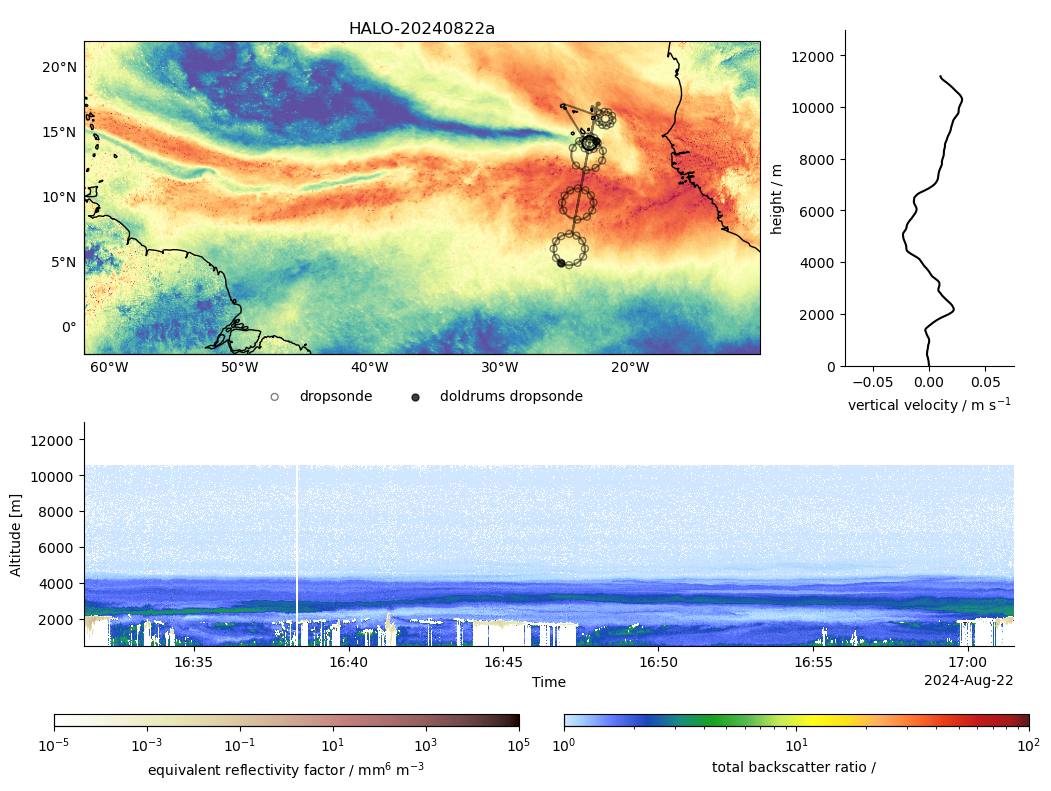
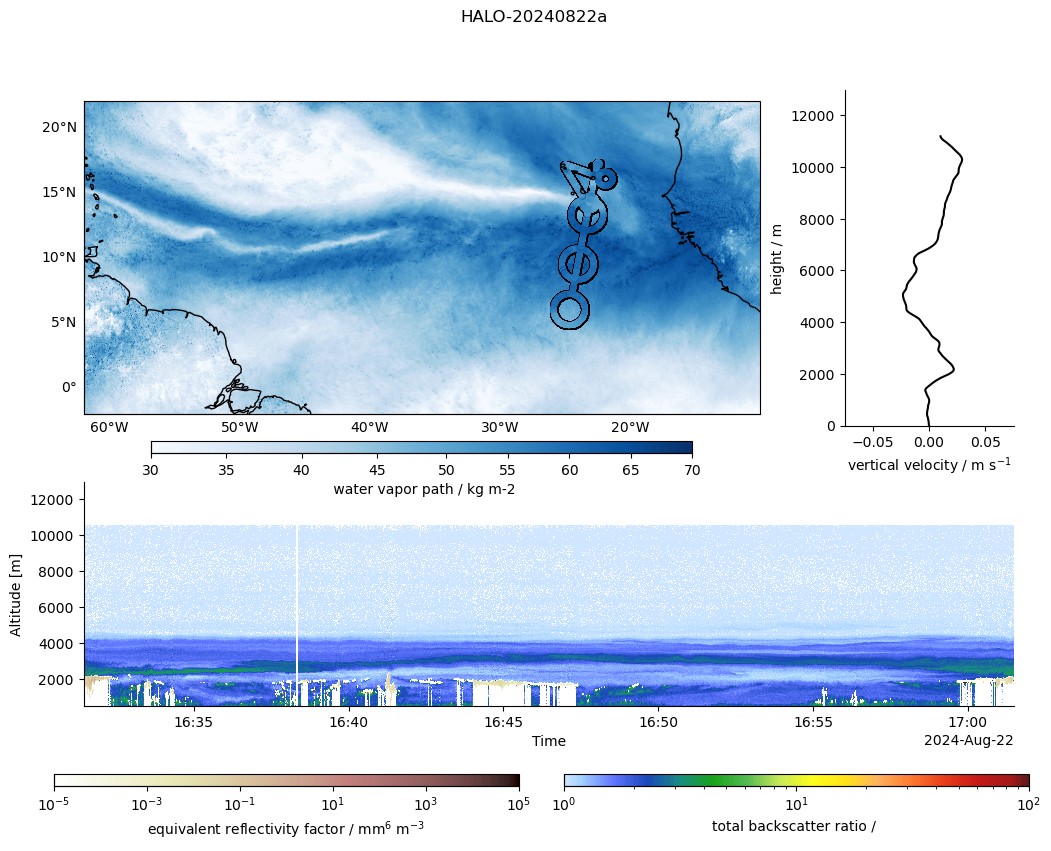
Updates at the edge of the ITCZ plot with HAMP IWV values.

diff --git a/scripts/figures_itcz_outside.py b/scripts/figures_itcz_outside.py
@@ -127,6 +127,15 @@ ds_hamp = xr.open_dataset(
 )
 ds_hamp_flight = ds_hamp.sel(time=slice(flight_start, flight_end))
 
+hamp_passiv_path_v2 = PROJECT_ROOT / "data" / "HAMP_with_IWV_IWP_LWP_TLWP_v2.nc"
+ds_hamp_passiv = xr.open_dataset(hamp_passiv_path_v2)
+
+ds_hamp_passiv_flight = ds_hamp_passiv.sel(time=slice(flight_start, flight_end))
+ds_hamp_passiv_segment = ds_hamp_passiv.sel(time=slice(segment_start, segment_end))
+
+
+# %%
+
 # %%
 # LAM dataset
 url = "https://eerie.cloud.dkrz.de/datasets/orcestra_1250m_2d_hpz12/kerchunk"
@@ -160,50 +169,69 @@ base_map(coastline_kwargs={"color": "k"}, ax=ax_lam)
 
 vmin, vmax, vcenter = 30, 70, 48
 norm = TwoSlopeNorm(vmin=vmin, vcenter=vcenter, vmax=vmax)
-cmap = plt.cm.Spectral_r
+cmap = plt.cm.Blues.copy()
 im = egh.healpix_show(ds_lam_sel, cmap=cmap, norm=norm, ax=ax_lam, alpha=1.0)
+
+pos = ax_lam.get_position()
+
+width_scale = 0.8
+
+cax_lam_positions = [
+    pos.x0 + pos.width * (1 - width_scale) / 2,  # left
+    pos.y1 - 0.44,  # bottom
+    pos.width * width_scale,  # width
+    0.015,  # height
+]
+
+cax_lam = fig.add_axes(cax_lam_positions)
+
+cb = fig.colorbar(
+    im,
+    cax=cax_lam,
+    orientation="horizontal",
+    label=rf" {ds_lam_sel.long_name} / {ds_lam_sel.units}",
+    shrink=0.75,
+)
+
 
 mask = (tracks.time >= segment_start) & (tracks.time <= segment_end)
 
-ax_lam.plot(
-    tracks.lon.where(~mask),
-    tracks.lat.where(~mask),
-    color="k",
-    alpha=0.5,
-)
-
-ax_lam.plot(
-    tracks.lon.where(mask),
-    tracks.lat.where(mask),
-    color="k",
-)
-
-
 ax_lam.scatter(
-    sondes_flight_day.launch_lon,
-    sondes_flight_day.launch_lat,
-    facecolors="none",
-    label="dropsonde",
-    alpha=0.5,
-    **scatter_kwargs,
+    ds_hamp_passiv_flight.lon,
+    ds_hamp_passiv_flight.lat,
+    c="k",
+    s=25,
 )
 
 ax_lam.scatter(
-    dol_sondes_flight_day.launch_lon,
-    dol_sondes_flight_day.launch_lat,
-    color=None,
-    label="doldrums dropsonde",
-    alpha=0.75,
-    zorder=10,
-    facecolors="k",
-    **scatter_kwargs,
+    ds_hamp_passiv_flight.lon,
+    ds_hamp_passiv_flight.lat,
+    c=ds_hamp_passiv_flight.IWV,
+    cmap=cmap,
+    norm=norm,
+    s=10,
 )
+
+
+# ax_lam.plot(
+#     tracks.lon.where(~mask),
+#     tracks.lat.where(~mask),
+#     color="k",
+#     alpha=0.5,
+# )
+
+# ax_lam.plot(
+#     tracks.lon.where(mask),
+#     tracks.lat.where(mask),
+#     color="k",
+# )
+
 
 ax_lam.set_xlabel("longitude / °")
 ax_lam.set_ylabel("latitude / °")
 ax_lam.spines[["right", "top"]].set_visible(False)
 ax_lam.legend(frameon=False, loc="lower center", bbox_to_anchor=(0.5, -0.2), ncol=4)
-ax_lam.set_title(flight_id)
+ax_lam.set_title(" ")
 
 # cmap_wales = plt.get_cmap("Blues").copy()
 # cmap_wales.set_under((1, 1, 1, 0))  # transparent
@@ -302,19 +330,12 @@ ax_ds.set_xlim(xmin=-0.075, xmax=0.075)
 
 ax_wales.set_ylim(ymin=500, ymax=13e3)
 
+plt.suptitle(flight_id)
+
 sns.despine()
 
 plt.savefig(f"{PROJECT_ROOT}/figures/figures_itcz_outside.png", bbox_inches="tight")
 
 # %%
-
-
-hamp_path_v2 = PROJECT_ROOT / "data" / "HAMP_with_IWV_IWP_LWP_TLWP_v2.nc"
-ds_hamp = xr.open_dataset(hamp_path_v2)
-hamp_orcestra = ds_hamp.sel(time=slice(segment_start, segment_end))
-
-iwv_hamp_orcestra = hamp_orcestra["IWV"]
-
-iwv_hamp_orcestra.plot()
 
 # %%
